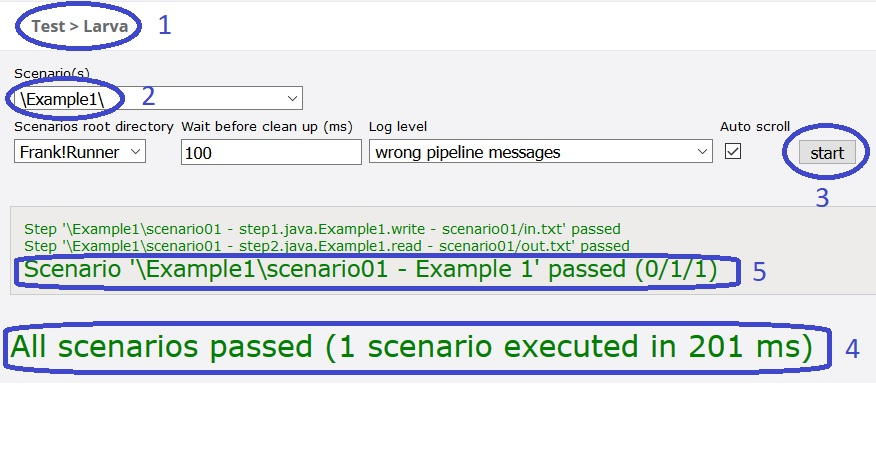
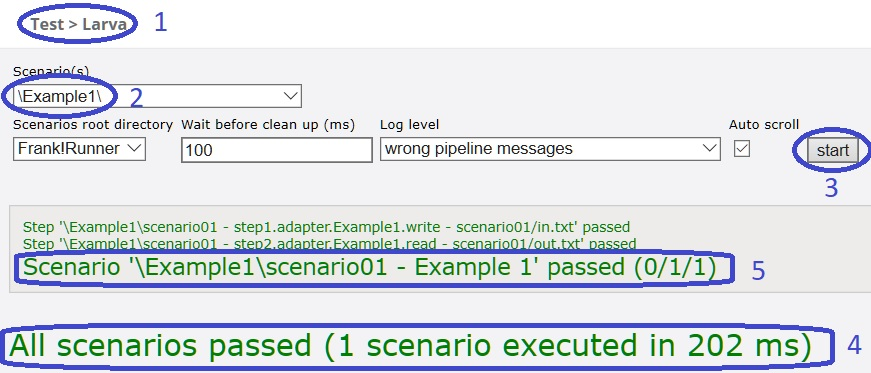
Update Getting Started | Larva because service names start with adapter or stub

diff --git a/docs/source/gettingStarted/helloLarva.rst b/docs/source/gettingStarted/helloLarva.rst
@@ -58,54 +58,54 @@ File ``scenario01.properties`` reads as follows: ::
 
    include = common.properties
 
-   step1.java.Example1.write = scenario01/in.txt
-   step2.java.Example1.read = scenario01/out.txt
+   step1.adapter.Example1.write = scenario01/in.txt
+   step2.adapter.Example1.read = scenario01/out.txt
 
 This is a properties file having the keys and the values separated by ``=``. First consider the following line: ::
 
-   step1.java.Example1.write = scenario01/in.txt
+   step1.adapter.Example1.write = scenario01/in.txt
 
-The right-hand-side references file ``in.txt``. What happens with that file? To see this, you have to know that the left-hand-side consists of three components: ``step1``, ``java.Example1`` and ``write``. ``java.Example1`` is a service name. Service names always consist of two words separated by a ``.``. In ``step1`` of the scenario, file ``in.txt`` is written to this service.
+The right-hand-side references file ``in.txt``. What happens with that file? To see this, you have to know that the left-hand-side consists of three components: ``step1``, ``adapter.Example1`` and ``write``. ``adapter.Example1`` is a service name. Service names always consist of two words separated by a ``.``. In ``step1`` of the scenario, file ``in.txt`` is written to this service.
 
 Now consider the next line: ::
 
-   step2.java.Example1.read = scenario01/out.txt
+   step2.adapter.Example1.read = scenario01/out.txt
 
-This line has the same syntax as its predecessor. The left-hand-side has components ``step2``, ``java.Example1`` and ``read``. The right-hand-side references file ``out.txt``. In ``step2`` of the scenario, data is read from service ``java.Example1``. The test verifies that the data equals the contents of file ``out.txt``. The contents of file ``out.txt`` is ``Hello World1``. This is the output of adapter "Example1Adapter" as you verified in section :ref:`helloTestPipeline`. This explains why the test succeeds.
+This line has the same syntax as its predecessor. The left-hand-side has components ``step2``, ``adapter.Example1`` and ``read``. The right-hand-side references file ``out.txt``. In ``step2`` of the scenario, data is read from service ``adapter.Example1``. The test verifies that the data equals the contents of file ``out.txt``. The contents of file ``out.txt`` is ``Hello World1``. This is the output of adapter "Example1Adapter" as you verified in section :ref:`helloTestPipeline`. This explains why the test succeeds.
 
-How is service ``java.Example1`` defined? To see this, consider the following line: ::
+How is service ``adapter.Example1`` defined? To see this, consider the following line: ::
 
    include = common.properties
 
 This line speaks for itself. When the Frank!Framework interprets the test script, it replaces the line by the contents of file ``common.properties``.  File ``common.properties`` reads as follows: ::
 
-   java.Example1.className=nl.nn.adapterframework.senders.IbisJavaSender
-   java.Example1.serviceName=testtool-Example1Adapter
+   adapter.Example1.className=nl.nn.adapterframework.senders.IbisJavaSender
+   adapter.Example1.serviceName=testtool-Example1Adapter
 
 This means that the shown scripts are equivalent to the following: ::
 
    scenario.description = Example 1
 
-   java.Example1.className=nl.nn.adapterframework.senders.IbisJavaSender
-   java.Example1.serviceName=testtool-Example1Adapter
+   adapter.Example1.className=nl.nn.adapterframework.senders.IbisJavaSender
+   adapter.Example1.serviceName=testtool-Example1Adapter
 
-   step1.java.Example1.write = scenario01/in.txt
-   step2.java.Example1.read = scenario01/out.txt
+   step1.adapter.Example1.write = scenario01/in.txt
+   step2.adapter.Example1.read = scenario01/out.txt
 
-The disadvantage is that script is that the lines in ``common.properties`` cannot be reused over multiple scenarios.
+The disadvantage of that script is that the lines in ``common.properties`` cannot be reused over multiple scenarios.
 
 Back to ``common.properties``: ::
 
-   java.Example1.className=nl.nn.adapterframework.senders.IbisJavaSender
-   java.Example1.serviceName=testtool-Example1Adapter
+   adapter.Example1.className=nl.nn.adapterframework.senders.IbisJavaSender
+   adapter.Example1.serviceName=testtool-Example1Adapter
 
-These lines define the service ``java.Example1``. Consider the first line first: ::
+These lines define the service ``adapter.Example1``. Consider the first line first: ::
 
-   java.Example1.className=nl.nn.adapterframework.senders.IbisJavaSender
+   adapter.Example1.className=nl.nn.adapterframework.senders.IbisJavaSender
 
-The left-hand-side has two components, namely ``java.Example1`` and ``className``. This line thus defines the ``className`` property of the ``java.Example1`` service. The right-hand-side references Java class ``nl.nn.adapterframework.senders.IbisJavaSender``, which is part of the Java source code of the Frank!Framework. This line links the service ``java.Example1`` to the behavior implemented in the mentioned Java class. This class defines what other properties can be configured for the ``java.Example1`` service, and it defines the meaning of the ``read`` and ``write`` directives that are applied to it in ``scenario01.properties``.
+The left-hand-side has two components, namely ``adapter.Example1`` and ``className``. This line thus defines the ``className`` property of the ``adapter.Example1`` service. The right-hand-side references Java class ``nl.nn.adapterframework.senders.IbisJavaSender``, which is part of the Java source code of the Frank!Framework. This line links the service ``adapter.Example1`` to the behavior implemented in the mentioned Java class. This class defines what other properties can be configured for the ``adapter.Example1`` service, and it defines the meaning of the ``read`` and ``write`` directives that are applied to it in ``scenario01.properties``.
 
-Services of class ``nl.nn.adapterframework.senders.IbisJavaSender`` communicate with listeners of type ``JavaListener``. Such listeners receive their message through a direct Java call. There are other listeners, for example ``ApiListener`` which gets its message from the body of a RESTful HTTP request. Services of class ``nl.nn.adapterframework.senders.IbisJavaSender`` have an additional property ``serviceName`` that defines the name of the listener to communicate with. The second line on ``common.properties`` gives property ``serviceName`` of service ``java.Example1`` the value ``testtool-Example1Adapter``.
+Services of class ``nl.nn.adapterframework.senders.IbisJavaSender`` communicate with listeners of type ``JavaListener``. Such listeners receive their message through a direct Java call. There are other listeners, for example ``ApiListener`` which gets its message from the body of a RESTful HTTP request. Services of class ``nl.nn.adapterframework.senders.IbisJavaSender`` have an additional property ``serviceName`` that defines the name of the listener to communicate with. The second line on ``common.properties`` gives property ``serviceName`` of service ``adapter.Example1`` the value ``testtool-Example1Adapter``.
 
 Please verify that listener ``testtool-Example1Adapter`` exists by doing the following:
 
@@ -157,8 +157,8 @@ When we reverse the above analysis of our Larva test, we arrive at a receipe to 
 #. If you have such a listener, you can proceed.
 #. Add a file ``common.properties`` with the following contents: ::
 
-     java.your-service-name.className=nl.nn.adapterframework.senders.IbisJavaSender
-     java.your-service-name.serviceName=your-testtool-listener
+     adapter.your-service-name.className=nl.nn.adapterframework.senders.IbisJavaSender
+     adapter.your-service-name.serviceName=your-testtool-listener
 
    .. NOTE::
 
@@ -166,7 +166,7 @@ When we reverse the above analysis of our Larva test, we arrive at a receipe to 
 
    .. NOTE::
 
-      Remember that a service name consists of two words separated by a dot. It is good practice to use the first word as a reminder for the ``className`` being applied. When you use ``nl.nn.adapterframework.senders.IbisJavaSender``, the first word should be ``ijs`` or ``java``.
+      Remember that a service name consists of two words separated by a dot. It is good practice to use ``adapter`` or ``stub`` for the first word. The word ``stub`` is reserved for services that are called by the adapter that you are testing. This does not happen in this hello world example. Therefore the service name starts with ``adapter``. More explanation will soon be added to this manual.
 
 #. Now you can write your scenarios. Each scenario includes your ``common.properties`` file to have access to the service. It has write directives to write data to your service, and the pipeline behind the referenced listener. It also has read directives to the same service to get the responses from the referenced pipeline.
 
